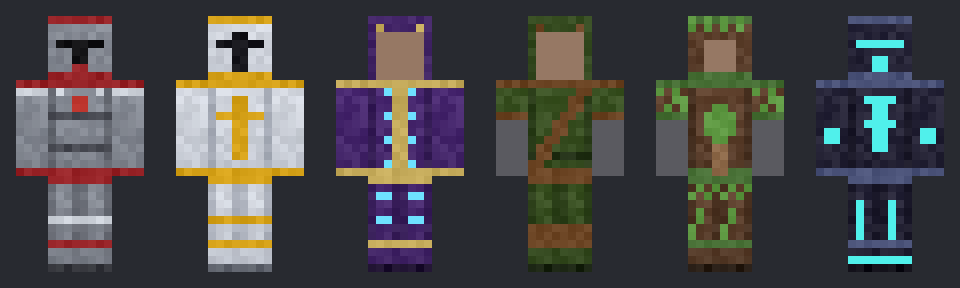
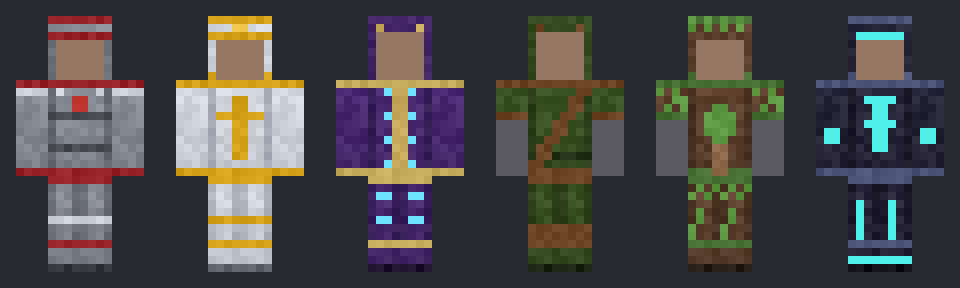
Casques de classe ouverts : le visage du joueur reste visible
Claude-Session: https://claude.ai/code/session_01KbhmanjnJ4pmktcpPfJYBy

diff --git a/src/armures/generate.py b/src/armures/generate.py
@@ -98,23 +98,23 @@ def motif(t, kind, face, px, py, w, hh, r0, r1):
                 if py >= 1 and (px == 1 or px == 6) and py <= 7:
                     return t.trim
                 return mix(c, t.dark, 0.2)
+            # casques ouverts : yeux, nez et bouche du joueur restent visibles
+            if 1 <= px <= 6 and 3 <= py <= 7:
+                return None
             if k == 'paladin':
-                # fente en croix
-                if (py == 3 and 1 <= px <= 6) or (px in (3, 4) and 2 <= py <= 6):
-                    return (20, 20, 26)
-            elif k == 'guerrier':
-                if (py == 3 and 1 <= px <= 6) or (px in (3, 4) and 3 <= py <= 5):
-                    return (16, 16, 18)
-                if px in (3, 4) and py in (6, 7):
+                if py == 2:
                     return t.trim
+                if px in (3, 4) and py == 1:
+                    return t.accent
+            elif k == 'guerrier':
+                if py == 2:
+                    return t.trim
+                if px in (0, 7) and py >= 3:
+                    return mix(c, t.dark, 0.35)
             elif k == 'lamerunique':
-                if py == 3 and 1 <= px <= 6:
-                    return t.glow + (255,)
-                if px in (3, 4) and py in (5, 6):
+                if py == 2 and 1 <= px <= 6:
                     return t.glow + (255,)
             elif k == 'druide':
-                if 2 <= px <= 5 and 3 <= py <= 6:
-                    return None
                 if py <= 1 and px % 2 == 0:
                     return t.accent
             if py == 0:
